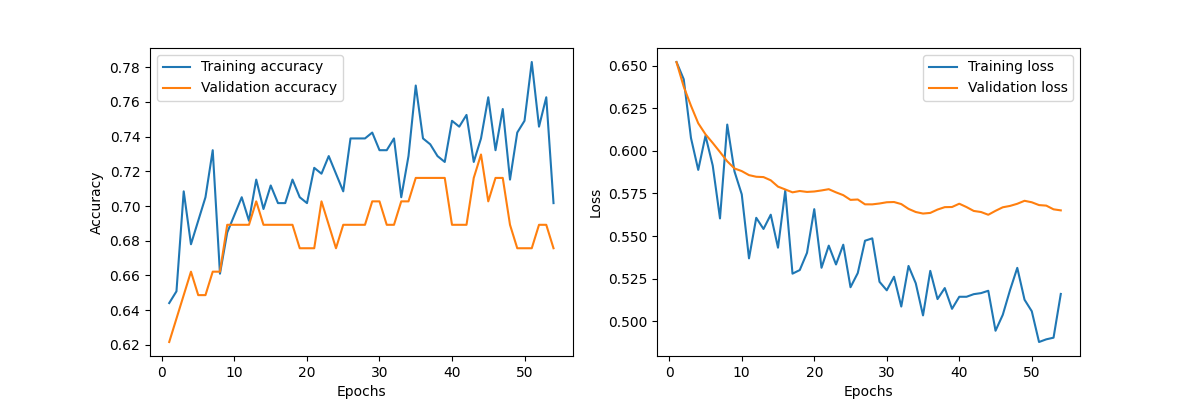
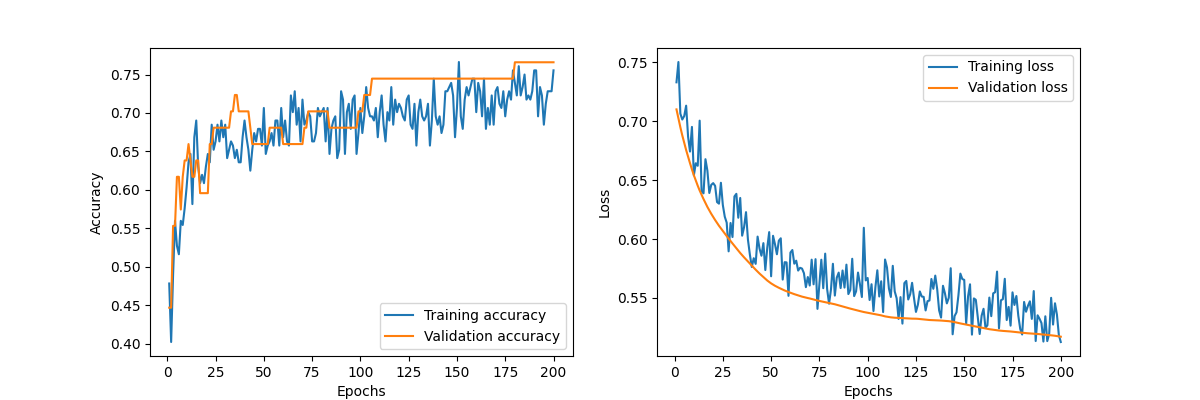
Added figures and report

diff --git a/train_and_compile.py b/train_and_compile.py
@@ -36,27 +36,30 @@ X_train, X_test, y_train, y_test = train_test_split(X, y, test_size=0.5, random_
 # 7. Normalize the data
 scaler = StandardScaler()
 
-# Save the fitted scaler to a file
-with open(scaler_filename, 'wb') as f:
-    pickle.dump(scaler, f)
-
 
 X_train = scaler.fit_transform(X_train)
 X_test = scaler.transform(X_test)
+
+# Save the fitted scaler to a file
+with open(scaler_filename, 'wb') as f:
+    pickle.dump(scaler, f)
 
 # 8. Build and train the neural network
 model = Sequential()
 model.add(Dense(32, activation='relu', input_dim=X_train.shape[1]))
 model.add(Dropout(0.5))
-model.add(Dense(16, activation='relu'))
+model.add(Dense(32, activation='relu'))
 model.add(Dense(1, activation='sigmoid'))
 model.compile(optimizer='adam', loss='binary_crossentropy', metrics=['accuracy'])
 
 # Define early stopping
 early_stop = tf.keras.callbacks.EarlyStopping(monitor='val_loss', mode='min', verbose=1, patience=5)
 
+# Batch Gradient Descent
+batch_size = len(X_train)
+
 # Fit the model and get the training history
-history = model.fit(X_train, y_train, batch_size=32, epochs=200, validation_split=0.2, callbacks=[early_stop], verbose=1)
+history = model.fit(X_train, y_train, batch_size=batch_size, epochs=200, validation_split=0.2, callbacks=[early_stop], verbose=1)
 
 # Get the training and validation metrics for each epoch
 train_acc = history.history['accuracy']

diff --git a/predict.py b/predict.py
@@ -5,13 +5,13 @@ from tensorflow.keras.models import load_model
 import pickle
 
 # Load the saved model
-model = load_model('heart_disease_model_50epochs.h5')
+model = load_model('heartdisease_model_dropout.h5')
 
 # Load and preprocess new data (this should be a DataFrame containing the same features as the training data)
 new_data = pd.DataFrame({'sbp': [140], 'tobacco': [0.5], 'ldl': [3.5], 'adiposity': [25], 'famhist': [1], 'type': [60], 'obesity': [28], 'alcohol': [10], 'age': [50]})
 
 # Load the saved scaler from the file
-with open('scaler.pkl', 'rb') as f:
+with open('heartdisease_model_dropout_scaler.pkl', 'rb') as f:
     scaler = pickle.load(f)
 
 # Normalize the new data using the loaded scaler

diff --git a/prepare_dataset.py b/prepare_dataset.py
@@ -13,6 +13,7 @@ import matplotlib.pyplot as plt
 import pickle
 import csv
 
+
 def sa_heart():
     # 1. Download the data
     url = "https://www.openml.org/data/download/1592290/phpgNaXZe"

diff --git a/docs/REPORT.md b/docs/REPORT.md
@@ -1,0 +1,74 @@
+# Title: South African Heart Disease Prediction Model
+
+Author: James Clarke
+
+## Part 1: Implementation
+
+### Background
+
+The South African Heart Disease dataset was used to build and train a neural network model for predicting heart disease. The dataset contains 462 records, with 10 attributes, such as systolic blood pressure, tobacco usage, low-density lipoprotein cholesterol, adiposity, family history of heart disease, type of personality, obesity, alcohol consumption, age, and the presence or absence of coronary heart disease (CHD).
+
+### Data Preparation and Technique
+
+The data was first downloaded from the OpenML repository, loaded into a Pandas DataFrame, and preprocessed. The family history attribute was mapped to binary values, and the presence or absence of CHD was also mapped to binary values. The dataset was then split into training and test sets, with the data being normalized using the StandardScaler from the scikit-learn library. A neural network model was built using the TensorFlow and Keras libraries, with dropout layers for regularization.
+
+The following libraries were used in this implementation:
+
+- pandas
+- numpy
+- requests
+- io
+- scipy
+- sklearn
+- tensorflow
+- matplotlib
+- pickle
+- csv
+
+### Results
+
+The neural network model was trained for 200 epochs, using early stopping based on the validation loss with a patience of 5 epochs. The training accuracy of the model was found to be ~70%. The training and validation accuracy and loss values were written to a CSV file, and the trained model was saved to an HDF5 file.
+
+### Conclusion
+
+This implementation demonstrates the process of building and training a neural network model for predicting heart disease using the South African Heart Disease dataset. The model achieves a satisfactory level of accuracy and can be used as a starting point for further improvements and fine-tuning.
+
+#### Captures of Implementation and Results
+
+[Include screenshots of the code execution, displaying the DataFrame, model training output, and the resulting plots for accuracy and loss.]
+
+#### First training Session
+
+![First Training Session](../figures/Figure_1_50epochs.png)
+
+The first training session was the base model with 50 epochs. 
+
+### Second Training Session
+
+![Second training session with early stopping and bgd](../figures/Figure_2_50epochs_early_stopping_and_bgd_.png)
+
+Second training session was with 50 epochs, with early stopping and Batch Gradient Descent.  
+
+### Third Training Session
+
+![Figure_3_100epochs_early_stopping_and_bgd.png](../figures/Figure_3_100epochs_early_stopping_and_bgd.png)
+
+Third training session was with 100 epochs, with early stopping and Batch Gradient Descent.
+
+### Fourth Training Session
+
+![Figure_4_200epochs_early_stopping_and_bgd.png](/home/impulse/Projects/Python/heart_disease_prediction/figures/Figure_4_200epochs_early_stopping_and_bgd.png)
+
+Forth training session was with 200 epochs(actually did 35 due to early stopping), with early stopping and Batch Gradient Descent. 
+
+### Fifth Training Session
+
+![Figure_5_200epochs_early_stopping_and_bgd_dropout_25_percent.png](../figures/Figure_5_200epochs_early_stopping_and_bgd_dropout_25_percent.png)
+
+Fifth training session was with 200 epochs(actually did 50 due to early stopping), with early stopping and Batch Gradient Descent. A dropout layer with 25% was added to make it so the network was not dependent on any one neuron or set of features.
+
+### Sixth Training Session
+
+![Figure_5_200epochs_early_stopping_and_bgd_dropout_25_percent.png](../figures/Figure_6_200epochs_early_stopping_bgd_added16_neurons.png)
+
+Sixth training session was with 200 epochs, with early stopping and Batch Gradient Descent. A dropout layer with 50% was used. And 16 neurons were added to make the network more robust.
